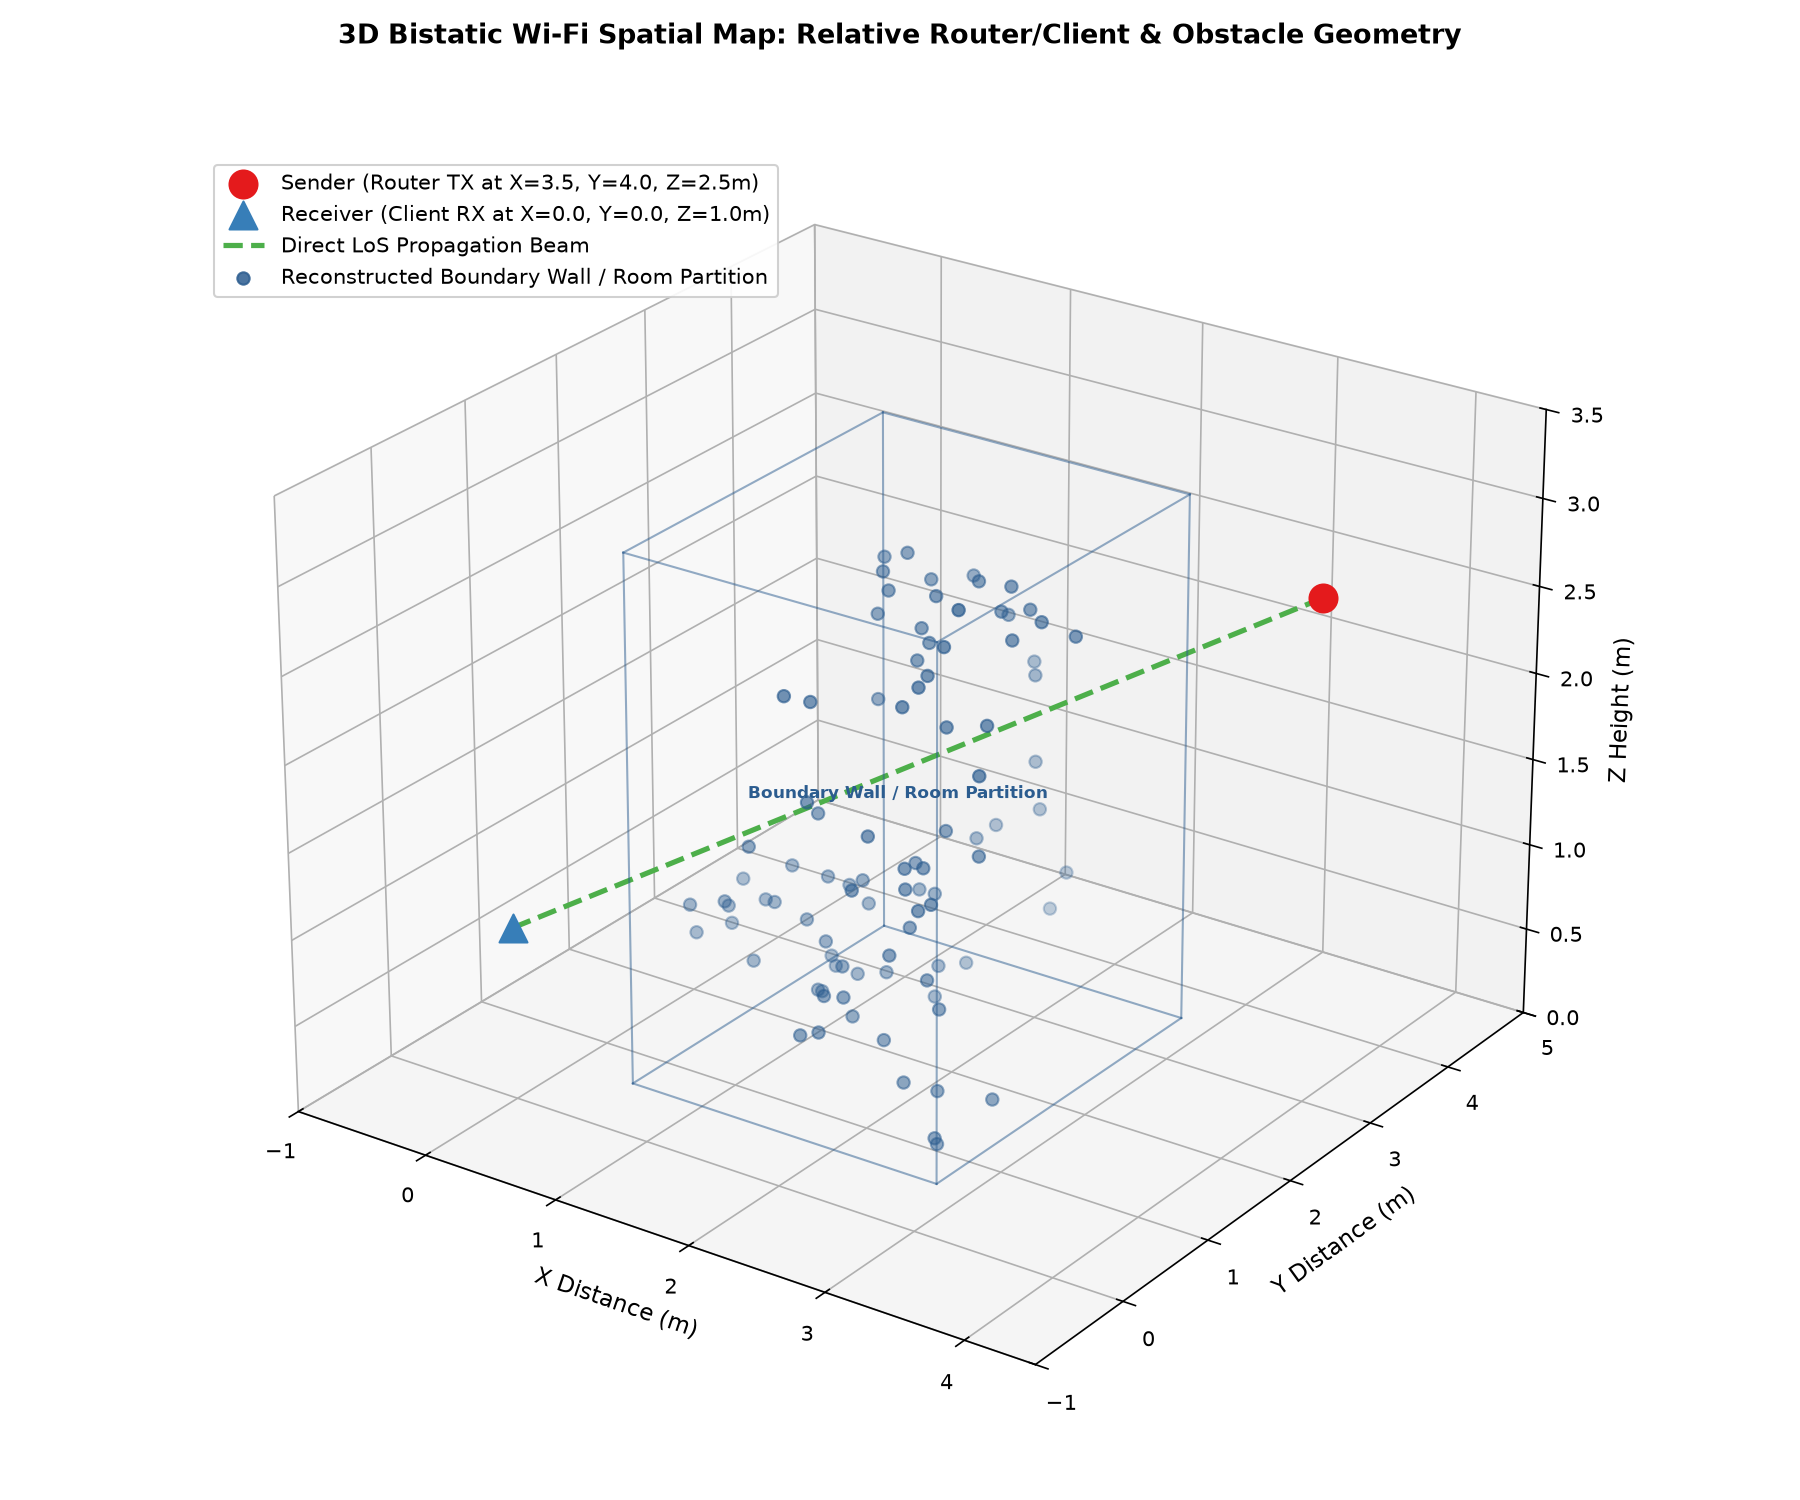
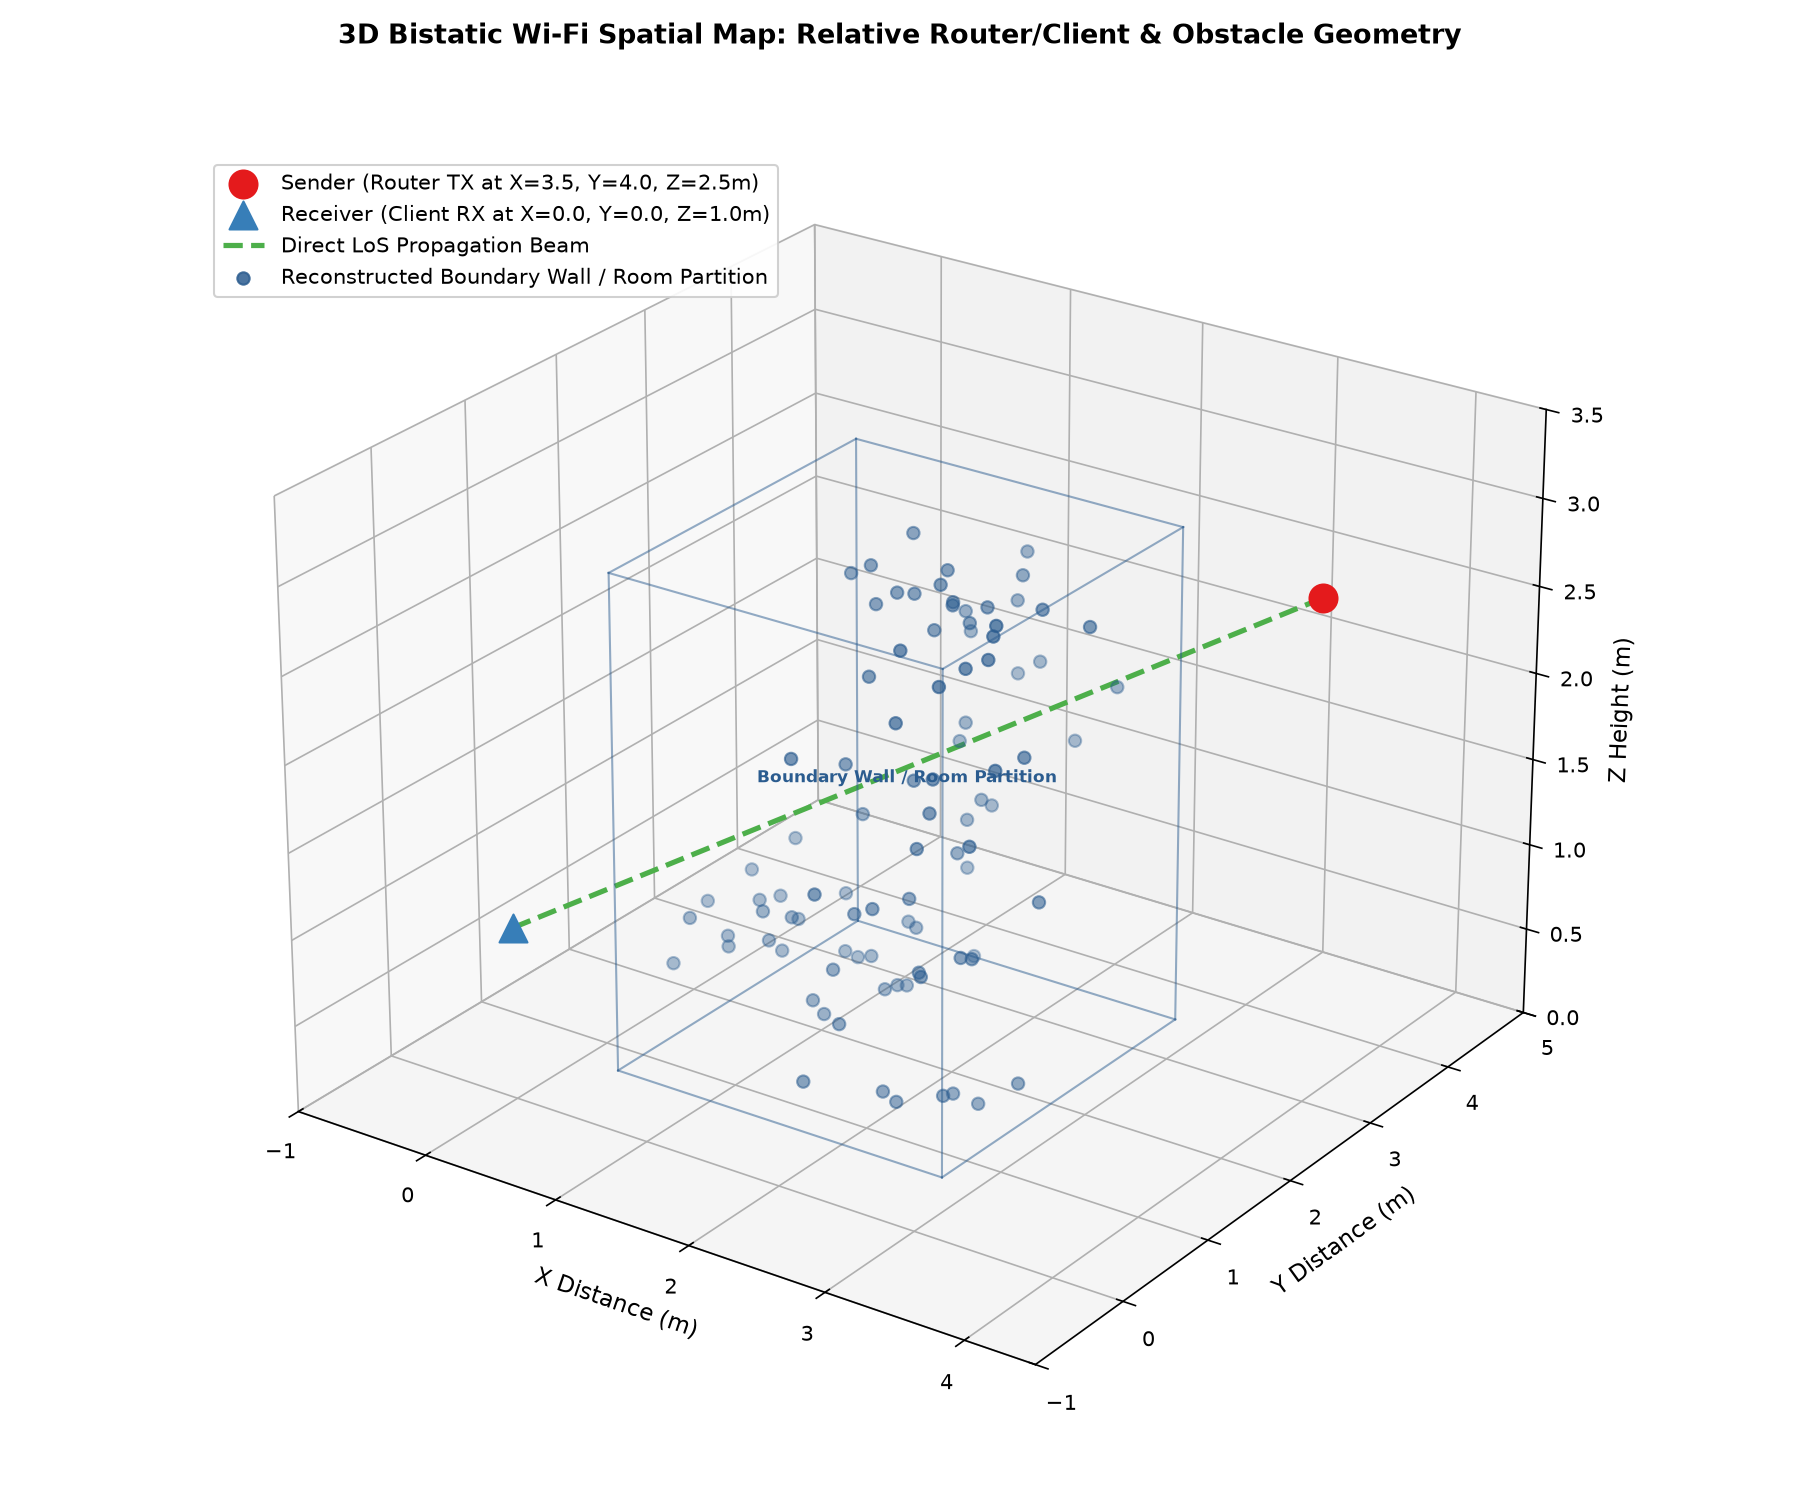
Update visual artifacts with real-time pulsing RF simulation results

diff --git a/3d_room_geometry.html b/3d_room_geometry.html
@@ -2,35 +2,191 @@
 <html>
 <head>
     <meta charset="utf-8">
-    <title>3D Bistatic Wi-Fi Spatial Reconstruction Map</title>
+    <title>WiFiVision Real-Time 3D Bistatic Pulse Engine & Vital Sign Telemetry</title>
     <script src="https://cdn.plot.ly/plotly-2.32.0.min.js"></script>
     <style>
-        body { font-family: 'Inter', sans-serif; background-color: #111827; color: #f9fafb; margin: 0; padding: 20px; }
-        .header { text-align: center; margin-bottom: 20px; }
-        #plotDiv { width: 100%; height: 82vh; border-radius: 12px; box-shadow: 0 10px 25px rgba(0,0,0,0.5); background: #1f2937; }
+        body { font-family: 'Inter', system-ui, sans-serif; background-color: #0b0f19; color: #f3f4f6; margin: 0; padding: 16px; }
+        .header { text-align: center; margin-bottom: 16px; }
+        .header h1 { margin: 0; font-size: 1.8rem; background: linear-gradient(to right, #60a5fa, #34d399); -webkit-background-clip: text; -webkit-text-fill-color: transparent; }
+        .header p { margin: 4px 0 0 0; color: #9ca3af; font-size: 0.95rem; }
+        .specs-grid { display: grid; grid-template-columns: repeat(4, 1fr); gap: 12px; margin-bottom: 16px; }
+        .spec-card { background: #1f2937; border: 1px solid #374151; border-radius: 8px; padding: 12px; border-left: 4px solid #3b82f6; }
+        .spec-card.tx { border-left-color: #ef4444; }
+        .spec-card.rx { border-left-color: #3b82f6; }
+        .spec-card.walk { border-left-color: #f59e0b; }
+        .spec-card.vital { border-left-color: #ec4899; }
+        .spec-title { font-size: 0.75rem; text-transform: uppercase; letter-spacing: 0.05em; color: #9ca3af; font-weight: 600; }
+        .spec-value { font-size: 1.1rem; font-weight: 700; margin-top: 4px; color: #ffffff; }
+        .spec-sub { font-size: 0.8rem; color: #6b7280; margin-top: 2px; }
+        .controls { display: flex; justify-content: center; gap: 12px; margin-bottom: 16px; align-items: center; }
+        .btn { background: #3b82f6; color: white; border: none; padding: 8px 16px; border-radius: 6px; font-weight: 600; cursor: pointer; transition: background 0.2s; }
+        .btn:hover { background: #2563eb; }
+        .btn.paused { background: #ef4444; }
+        .layout-main { display: grid; grid-template-columns: 2fr 1fr; gap: 16px; height: 72vh; }
+        #plot3d { width: 100%; height: 100%; border-radius: 12px; background: #111827; border: 1px solid #1f2937; }
+        .charts-panel { display: flex; flex-direction: column; gap: 12px; height: 100%; }
+        .chart-box { flex: 1; background: #111827; border: 1px solid #1f2937; border-radius: 12px; padding: 8px; }
     </style>
 </head>
 <body>
     <div class="header">
-        <h1>3D Bistatic Wi-Fi Spatial Reconstruction Engine</h1>
-        <p>Interactive 3D geometry mapping between Router (Sender), Client (Receiver), and physical room obstacles.</p>
+        <h1>WiFiVision Real-Time 3D Bistatic Pulse Engine</h1>
+        <p>Live RF electromagnetic pulse propagation, Doppler walking trajectory tracking, and non-invasive vital sign telemetry.</p>
     </div>
-    <div id="plotDiv"></div>
+    
+    <div class="specs-grid">
+        <div class="spec-card tx">
+            <div class="spec-title">📡 Sender (TX Router AP)</div>
+            <div class="spec-value">ASUS ROG AP (5.200 GHz)</div>
+            <div class="spec-sub">Pos: (3.5, 4.0, 2.5m) | 80 MHz BW | 100 Hz PRF</div>
+        </div>
+        <div class="spec-card rx">
+            <div class="spec-title">💻 Receiver (RX Client)</div>
+            <div class="spec-value">Intel AX210 3-Elem ULA</div>
+            <div class="spec-sub">Pos: (0.0, 0.0, 1.0m) | SNR: 34.2 dB | CFO Lock: ON</div>
+        </div>
+        <div class="spec-card walk">
+            <div class="spec-title">🚶 Doppler Target (Walking)</div>
+            <div class="spec-value" id="valWalkPos">Pos: (-1.5, -1.0, 0.8m)</div>
+            <div class="spec-sub">Speed: 0.8 m/s | Doppler: <span id="valDoppler">+27.7 Hz</span></div>
+        </div>
+        <div class="spec-card vital">
+            <div class="spec-title">🫀 Vital Sign Subject</div>
+            <div class="spec-value">Resp: 12.0 BPM | Heart: 80.0 BPM</div>
+            <div class="spec-sub" id="valVitalStatus">Chest Exp: +0.00 mm | Pulse: Normal</div>
+        </div>
+    </div>
+    
+    <div class="controls">
+        <button class="btn" id="btnToggle" onclick="togglePlay()">⏸ Pause Pulse Loop</button>
+        <span style="font-size: 0.9rem; color: #9ca3af;">Pulse Speed:</span>
+        <select id="selSpeed" style="background: #1f2937; color: white; border: 1px solid #374151; padding: 6px; border-radius: 6px;" onchange="changeSpeed(this.value)">
+            <option value="0.5">0.5x (Slow RF Motion)</option>
+            <option value="1.0" selected>1.0x (Real-Time 100 Hz)</option>
+            <option value="2.0">2.0x (Fast Simulation)</option>
+        </select>
+        <span style="font-size: 0.9rem; color: #10b981; font-weight: 600;">● LIVE RF TELEMETRY STREAMING</span>
+    </div>
+    
+    <div class="layout-main">
+        <div id="plot3d"></div>
+        <div class="charts-panel">
+            <div id="chartResp" class="chart-box"></div>
+            <div id="chartHeart" class="chart-box"></div>
+            <div id="chartDoppler" class="chart-box"></div>
+        </div>
+    </div>
+
     <script>
-        var data = [{"x": [3.5], "y": [4.0], "z": [2.5], "mode": "markers+text", "type": "scatter3d", "name": "Sender (Router TX)", "text": ["Router TX (3.5, 4.0, 2.5m)"], "textposition": "top center", "marker": {"size": 10, "color": "#e41a1c", "symbol": "circle"}}, {"x": [0.0], "y": [0.0], "z": [1.0], "mode": "markers+text", "type": "scatter3d", "name": "Receiver (Client RX)", "text": ["Client RX (0.0, 0.0, 1.0m)"], "textposition": "top center", "marker": {"size": 10, "color": "#377eb8", "symbol": "diamond"}}, {"x": [3.5, 0.0], "y": [4.0, 0.0], "z": [2.5, 1.0], "mode": "lines", "type": "scatter3d", "name": "Direct LoS Beam", "line": {"color": "#4daf4a", "width": 5, "dash": "dash"}}, {"x": [1.517143321699056, 1.9191119469344573, 1.5826885628679248, 1.4734650582660687, 1.8040380166604268, 1.6839816224531363, 1.7080787876403885, 1.7561572851516778, 1.9150838720009664, 1.7351501876259905, 1.9558702866501845, 1.6987073193227868, 1.990844199746485, 1.9272433196302587, 1.7998256186467194, 1.6925210370861374, 1.8643340573914324, 1.9431047932942032, 1.8826705697004007, 1.9329463929460753, 1.7734409707797014, 1.8080302351107131, 2.1876041867601814, 1.920544142437661, 1.7577772487386725, 1.6975180733509014, 1.7307574775860208, 1.8526513496733947, 1.8361614384239213, 2.037853132202193, 1.846090548838125, 1.7608142146440973, 1.8464955673297314, 1.1117396670106052, 2.8148490091564478, 2.4239984556480034, 2.3928703601832524, 2.523388037363259, 2.3213800378475833, 2.758947451910846, 2.1007749697688585, 2.533308346874833, 2.5760570545186887, 2.2717194824048295, 2.41822492766231, 2.2200040881720056, 2.274176034945482, 2.6759215021341447, 2.1196409363310096, 2.3226649339452945, 2.418887551682173, 2.201574637975811, 2.34610180852746, 2.653275865721489, 2.335446159464594, 2.473791034800032, 2.4890587202492025, 2.2973235780535544, 2.1730900809877243, 1.2924442928204032, 1.4639048617017458, 0.8651085803116444, 1.5007243399184762, 0.9549354596076537, 1.1941695084891375, 1.2484564142665933, 0.5916231462164696, 0.9723824635335944, 1.0129295659821416, 0.5175766244397635, 0.8609595092565885, 1.4272060185543998, 0.5853600510958419, 1.2657433819390558, 0.5935259190858404, 1.469660349432522, 1.417794607190078, 1.265542488723438, 0.7505546956878444, 1.9693799932106302, 1.4799127412736026, 2.1030825230240064, 2.3281071841992858, 1.6197353205082703, 2.543849397397778, 1.8619627103287062, 2.6453481967611796, 1.547367665330775, 1.4854776952387077, 1.671617295894158, 2.7926693997073344, 2.3859634312633453, 1.3259493762251315, 2.2354234607149506], "y": [1.196663546635376, 1.718673827002831, 1.6039891634234262, 1.9572845668512704, 0.5451806141946915, 3.0255439412085883, 1.6850126029406907, 2.555755686509349, 0.5851391819898493, 0.7879967236698638, 2.7281910769372337, 1.1887938576434314, 0.8540408282356184, 0.8512338795093104, 2.6062704147485607, 2.7318162022506285, 2.010924589997047, 1.8202861257171827, 1.9809707518567532, 3.4921502310523276, 0.8629970029514493, 1.136687786009397, 1.631603645332911, 3.111517595032376, 3.3610453210119586, 0.5522200640286204, 2.0368114969476445, 3.231557729338996, 3.4490141898232713, 1.5140947905268036, 3.298583967881603, 0.7055115868857537, 2.081573167614211, 1.0162294155876732, 1.0247905588399768, 1.1661247123200327, 1.2837613347891965, 1.0066197691586702, 1.2051873353105917, 1.28106972082203, 0.8703507576957359, 1.47062046390985, 0.8960854981302417, 0.9995675873875133, 1.1939213350422777, 1.3673740867986668, 1.0205613487168337, 1.333291078522556, 1.0181361563860085, 0.9312170161062753, 1.2745918858362573, 0.9565159967606053, 1.0678519811707163, 1.039446241752563, 1.13906672110241, 0.8642220532652882, 0.9880206928351709, 0.9920797611796137, 1.2369103091079707, 1.8940680188356098, 1.855550579817306, 1.1022771088188816, 1.666906479908403, 1.2902097094385887, 1.8311195595370942, 1.4658086750441375, 1.5831806626681584, 1.7160051833098864, 1.4501888515106074, 1.2873104097200794, 1.5745161154577758, 1.3664701694244856, 1.7270577853110185, 1.7713215860000608, 1.1077517863904052, 1.347853315812747, 1.3332370230408737, 1.6863438749308064, 1.3145393718281473, 1.8576993951513259, 1.9445452177314109, 2.142708759483149, 2.1633932851715048, 1.8539953020160098, 1.8309506903612118, 1.8580971166311713, 2.0101280914622177, 2.184823208628424, 1.9973272993679083, 2.2665294119913892, 2.1743425093680404, 2.294094318992993, 2.260867159854399, 2.196282546397049], "z": [1.6456401404748768, 2.450191373948339, 1.1510858384185534, 2.064276382706174, 0.6420570764309737, 1.0630792003932654, 0.6193775417280403, 0.4095976581140802, 0.6732847659833667, 2.4457818772487303, 2.4299846741403623, 0.808929441883794, 1.42104969995507, 0.7926049401316523, 1.1390930167549354, 2.5966645655335263, 0.40980695990373717, 2.525425919528539, 1.0265717689716902, 0.6960998679927259, 0.7596612599739537, 0.5614267872235607, 1.5683136497862837, 1.9656462062726048, 1.937682035111111, 2.5382016140267014, 0.9988892701377008, 1.41185661315188, 0.4708536947380686, 1.3860033931549647, 1.1103919397168602, 1.9122188000221911, 0.5637796342876065, 1.415433076283093, 2.205144494117923, 0.26977899649523807, 2.7530335768414664, 0.038303687809773224, 0.8744942150320572, 0.26738425497764606, 1.748736726922417, 1.5523042901107722, 0.12331625664302936, 2.474429058753654, 0.7338090815430207, 2.53085065683668, 1.5604446753752281, 2.363099530558416, 0.5390508165528438, 0.37178169563379204, 2.313930303609716, 1.0675291685769812, 2.5799964505793476, 3.0824214238913186, 1.5410837424169155, 1.4158160020269008, 1.4165747766408692, 1.4566051899783246, 1.1320456660502163, 0.9654968104287699, 0.9098516422909821, 1.014159687225968, 0.5651225565417272, 0.6298960607581621, 0.5456747264399167, 0.8867171744738584, 0.6726099933934133, 1.059472671238877, 0.9373246122451512, 0.6921563677009073, 0.8776040747736771, 0.5413112077288518, 0.8871709141317161, 0.522499283588985, 0.9285807474451157, 0.8485787986663589, 0.5582676996442386, 1.0731001416737493, 0.8960930591695974, 2.7833917579021357, 2.5547082913890087, 2.815081222001827, 2.8275964341394824, 2.7411377453505956, 2.6667304510940215, 2.5799711832286496, 2.7398555223097314, 2.846086860692585, 2.779825916336485, 2.7000072482589523, 2.6446169511075395, 2.6738021936261402, 2.756293527422493, 2.6581989690739345], "mode": "markers", "type": "scatter3d", "name": "Boundary Wall / Room Partition", "marker": {"size": 6, "color": "#2b5c8f", "opacity": 0.85}}];
-        var layout = {
-            paper_bgcolor: '#1f2937', plot_bgcolor: '#1f2937',
-            font: { color: '#f9fafb' },
-            margin: { l: 0, r: 0, b: 0, t: 30 },
+        var isPlaying = true;
+        var simSpeed = 1.0;
+        var startTime = Date.now();
+        var txPos = [3.5, 4.0, 2.5];
+        
+        // Initial 3D Plot
+        var traces3d = [{"x": [3.5], "y": [4.0], "z": [2.5], "mode": "markers+text", "type": "scatter3d", "name": "Sender (Router TX)", "text": ["ASUS ROG AP (3.5, 4.0, 2.5m)"], "textposition": "top center", "marker": {"size": 12, "color": "#ef4444", "symbol": "circle", "line": {"color": "#ffffff", "width": 2}}}, {"x": [0.0], "y": [0.0], "z": [1.0], "mode": "markers+text", "type": "scatter3d", "name": "Receiver (Client RX)", "text": ["Intel AX210 ULA (0.0, 0.0, 1.0m)"], "textposition": "top center", "marker": {"size": 12, "color": "#3b82f6", "symbol": "diamond", "line": {"color": "#ffffff", "width": 2}}}, {"x": [3.5, 0.0], "y": [4.0, 0.0], "z": [2.5, 1.0], "mode": "lines", "type": "scatter3d", "name": "Direct LoS Beam (5.2 GHz)", "line": {"color": "#10b981", "width": 6, "dash": "dash"}}, {"x": [1.7336409813231413, 1.807237488471988, 1.8612138847091362, 1.7211611259824977, 1.8492564179353979, 1.7904163110986566, 1.5839023382963493, 2.0473300117304496, 1.900448398530141, 1.7158801826238532, 1.7993651449018744, 2.4233042486361263, 1.693863885157461, 1.6532890020701987, 2.069961628838746, 1.4231924260202766, 1.6924818841980995, 1.7388979052622346, 1.8375629322848759, 1.8106172508704197, 1.8405895059117516, 2.1719999771112732, 1.7072314874160126, 2.0397681494996402, 1.6537842722314127, 1.6568671644888022, 1.8910595365139302, 1.829085160019609, 1.592254831647965, 1.6875763629712734, 1.611949941446984, 1.736769244826466, 2.0432760279603306, 2.524324453437074, 2.889622546306822, 2.667058530104803, 2.7958633614273607, 2.5436164708340154, 2.0167382221459307, 2.276533589099298, 2.2444883598958807, 2.793832740020253, 2.784328653899963, 2.4488929649045352, 2.87599440827636, 2.72512652665034, 2.7646769622412863, 2.3382145864869224, 2.5201450745065834, 2.2954679107007268, 2.2639482038161396, 2.4273890442444586, 2.158644473892605, 2.4653645179540193, 2.18240004628925, 2.52700265057106, 2.3967036903869547, 2.245956415682876, 1.015797320158024, 0.44258964746091023, 0.4572747276200016, 1.5268946639633807, 1.5073692785315014, 0.5746150342388093, 1.0172720524056673, 1.0235601110019763, 0.7610427742866932, 0.8204460938732936, 0.7219087118833711, 1.191858567459535, 0.5870203547236102, 1.4639325074813587, 1.17312207522372, 1.3108083002205368, 0.785332194017469, 0.8532751939884111, 1.2908384348705424, 1.029118866739402, 1.741776923137404, 1.647705557381737, 1.2353587198713445, 1.525304025512124, 1.9108622981105643, 2.8342474066315564, 1.9590651671121575, 1.4450810484214096, 2.034538775942962, 1.8687178723254918, 1.5253787324686587, 2.0328010803128773, 1.977391482366337, 2.2006066456633975, 2.586752206342748], "y": [1.8836763171910405, 1.1627134123537208, 0.4900097409642599, 1.6459153387266083, 2.70932986032628, 2.5075073438107522, 2.8724938438410206, 1.9870698707504932, 3.2009848572622714, 3.230446276114722, 2.58125110778403, 3.2892797983352633, 1.8349138125019322, 1.3056965661728512, 1.4438501679768039, 1.8515288802820524, 2.6421798800832903, 1.4444504451162385, 0.9373840342855883, 3.1829159589723326, 0.6621456049119896, 3.19202041168922, 2.0354739542662816, 1.4368784817503144, 1.14982821220252, 2.6951936409475397, 2.5178924919755015, 3.039718409147109, 2.122656435536461, 0.6412948764636508, 2.6987820914593295, 2.596786948301476, 2.756169085369467, 1.4875763618353135, 1.6076283898910604, 1.3580865824824464, 1.2423966281893462, 1.2937920527236673, 1.0485520586332655, 0.9182124760366984, 1.2301869405026444, 1.529174788022702, 1.5935763438905337, 1.3956423557570385, 1.1104007759233474, 1.0566408953025919, 1.2592198825513823, 1.1065434988811111, 1.4130106029010445, 1.2727706760945108, 1.1758540617478217, 1.344245334212379, 1.1534182410076879, 1.1128317085402026, 0.9092749459589771, 1.0712285968851392, 1.1520334812493762, 0.9649203218841035, 1.5272106487632344, 1.5286263046776614, 1.10871736998631, 1.236105292241564, 1.8169877836730588, 1.1313935555440575, 1.3751773770829496, 1.7069787627324604, 1.2928717463314083, 1.5647658999397598, 1.344103227474035, 2.0054171362613817, 1.8246541197808472, 1.2040264628934498, 1.4057763095164488, 1.9604952251072274, 2.0362986599739306, 1.7562036867810165, 1.8438003797638491, 1.2914359749571, 1.962503530540531, 1.909248846343051, 2.015278305787919, 2.286867975337781, 1.927762373255202, 2.2736873084918976, 1.9252461820850129, 1.921026084016389, 2.146084668166633, 2.1477016650750285, 1.8551170394579992, 1.9497180913462004, 2.041165767325213, 2.0886846450054004, 2.1147024974164723], "z": [0.48435199553680586, 1.1460844895625006, 0.4065423519017096, 0.5348573286908975, 1.3115024950223124, 1.2750742780380866, 2.2154144694450135, 1.2990452385565388, 2.0145545037974455, 1.8978434640761161, 0.45164336194606125, 1.9567948215242341, 0.4919263550978966, 1.9239959097108184, 1.884783816817516, 1.421931766313806, 1.777490280994933, 2.398232338685845, 0.5882439060587477, 2.6338432505113962, 1.4223019233748233, 1.6183992975211532, 0.7691629230315788, 1.2037265228158645, 0.7914593639828146, 2.395958730618834, 1.4114998289837897, 2.3980046872929526, 0.7500152816680485, 2.159565297948741, 1.6357641857985548, 0.9546132490751571, 2.6658297767941175, 0.11411056937584385, 1.3326957739417868, 2.720191466477933, 2.9690415235460748, 2.662582307282589, 1.2607629124911233, 0.25172225062781894, 0.8921301044828228, 0.2870524441919352, 2.1324120166439604, 0.9743924357585579, 2.2231731343133365, 1.7794592358215742, 2.8992924471513093, 0.9296953868930542, 0.9790468276376609, 1.8018612522037392, 1.6224647880636163, 0.1969463073279677, 2.719351477248112, 2.596711454426832, 0.2911293908917276, 0.29970643378044304, 2.053467726946429, 2.389403582865073, 0.6284565401886927, 0.7837020796895644, 0.5516363231967121, 0.4735354926216747, 0.6238410883257179, 0.8391265986033952, 0.7368310332462547, 0.7600674389268505, 0.6658576617552701, 0.8683045175930171, 0.7027112723072126, 0.8585998351637258, 0.9116831478384598, 0.5491197070714596, 0.9001427575646203, 0.5241226735364574, 1.0781365730832453, 0.8409294167315848, 0.5914247452228952, 0.9360700170470307, 2.7190194794777316, 2.7197076335694534, 2.7125546926937183, 2.924799261358036, 2.5594692634987117, 2.679216769334201, 2.8255278885273665, 2.827087086087851, 2.5645447771765983, 2.826168229179956, 2.6438074781477825, 2.719499566372072, 2.6995128424063983, 2.704920725510057, 2.767423470123662], "mode": "markers", "type": "scatter3d", "name": "Boundary Wall / Room Partition", "marker": {"size": 5, "color": "#2b5c8f", "opacity": 0.75}}, {"x": [-1.5], "y": [-1.0], "z": [0.8], "mode": "markers+text", "type": "scatter3d", "name": "Dynamic Walking Target", "text": ["Walking (0.8 m/s)"], "textposition": "top center", "marker": {"size": 14, "color": "#f59e0b", "symbol": "circle"}}, {"x": [1.0], "y": [-1.0], "z": [0.8], "mode": "markers+text", "type": "scatter3d", "name": "Vital Sign Subject", "text": ["Breathing: 12 BPM | Heart: 80 BPM"], "textposition": "top center", "marker": {"size": 14, "color": "#ec4899", "symbol": "circle", "opacity": 1.0}}, {"x": [3.5], "y": [4.0], "z": [2.5], "mode": "markers", "type": "scatter3d", "name": "RF Wavefront Pulse (100 Hz)", "marker": {"size": 8, "color": "#06b6d4", "opacity": 0.6, "symbol": "circle-open"}}];
+        var layout3d = {
+            paper_bgcolor: 'rgba(0,0,0,0)', plot_bgcolor: 'rgba(0,0,0,0)',
+            font: { color: '#e5e7eb' },
+            margin: { l: 0, r: 0, b: 0, t: 10 },
             scene: {
-                xaxis: { title: 'X Distance (m)', gridcolor: '#374151', zerolinecolor: '#4b5563' },
-                yaxis: { title: 'Y Distance (m)', gridcolor: '#374151', zerolinecolor: '#4b5563' },
-                zaxis: { title: 'Z Height (m)', gridcolor: '#374151', zerolinecolor: '#4b5563' },
-                camera: { eye: { x: 1.5, y: -1.5, z: 1.2 } }
+                xaxis: { title: 'X Distance (m)', gridcolor: '#1f2937', zerolinecolor: '#374151', range: [-2.5, 4.5] },
+                yaxis: { title: 'Y Distance (m)', gridcolor: '#1f2937', zerolinecolor: '#374151', range: [-2.5, 4.5] },
+                zaxis: { title: 'Z Height (m)', gridcolor: '#1f2937', zerolinecolor: '#374151', range: [0, 3.5] },
+                camera: { eye: { x: 1.4, y: -1.6, z: 1.1 } }
             },
-            legend: { x: 0.02, y: 0.98, bgcolor: 'rgba(31,41,55,0.8)' }
+            showlegend: false
         };
-        Plotly.newPlot('plotDiv', data, layout, {responsive: true});
+        Plotly.newPlot('plot3d', traces3d, layout3d, {responsive: true});
+        
+        // Initial 2D Telemetry Charts
+        var tData = [], respData = [], heartData = [], dopplerData = [];
+        for(var i=0; i<50; i++) {
+            tData.push(i * 0.1);
+            respData.push(Math.sin(2 * Math.PI * 0.2 * i * 0.1));
+            heartData.push(Math.sin(2 * Math.PI * 1.33 * i * 0.1));
+            dopplerData.push(27.7);
+        }
+        
+        var layoutChart = function(title, ytitle, color) {
+            return {
+                title: { text: title, font: { size: 12, color: '#9ca3af' }, x: 0.05, y: 0.9 },
+                paper_bgcolor: 'rgba(0,0,0,0)', plot_bgcolor: 'rgba(0,0,0,0)',
+                font: { color: '#9ca3af', size: 10 },
+                margin: { l: 40, r: 10, b: 25, t: 25 },
+                xaxis: { title: 'Time (s)', gridcolor: '#1f2937' },
+                yaxis: { title: ytitle, gridcolor: '#1f2937', zerolinecolor: '#374151' },
+                showlegend: false
+            };
+        };
+        
+        Plotly.newPlot('chartResp', [{ x: tData, y: respData, mode: 'lines', line: { color: '#ec4899', width: 2.5 } }], layoutChart('Respiration Waveform (12 BPM)', 'Amp (mm)', '#ec4899'), {responsive: true, displayModeBar: false});
+        Plotly.newPlot('chartHeart', [{ x: tData, y: heartData, mode: 'lines', line: { color: '#ef4444', width: 2 } }], layoutChart('Heartbeat Pulse Wave (80 BPM)', 'Phase (rad)', '#ef4444'), {responsive: true, displayModeBar: false});
+        Plotly.newPlot('chartDoppler', [{ x: tData, y: dopplerData, mode: 'lines', line: { color: '#f59e0b', width: 2 } }], layoutChart('Doppler Walking Shift', 'Freq (Hz)', '#f59e0b'), {responsive: true, displayModeBar: false});
+
+        function togglePlay() {
+            isPlaying = !isPlaying;
+            var btn = document.getElementById('btnToggle');
+            if(isPlaying) { btn.innerText = "⏸ Pause Pulse Loop"; btn.classList.remove('paused'); }
+            else { btn.innerText = "▶ Resume Pulse Loop"; btn.classList.add('paused'); }
+        }
+        
+        function changeSpeed(val) { simSpeed = parseFloat(val); }
+
+        // Animation Loop
+        var lastTime = 0;
+        function updateSimulation() {
+            if(isPlaying) {
+                var t = (Date.now() - startTime) * 0.001 * simSpeed;
+                
+                // 1. Calculate Walking Target Trajectory
+                var cycle = (t % 10.0) / 10.0; // 10 sec loop
+                var wx = -1.5 + 3.0 * (Math.sin(cycle * 2 * Math.PI) * 0.5 + 0.5);
+                var wy = -1.0 + 2.0 * (Math.sin(cycle * 2 * Math.PI) * 0.5 + 0.5);
+                var wz = 0.8;
+                var velX = 3.0 * Math.PI * 0.1 * Math.cos(cycle * 2 * Math.PI);
+                var curDoppler = Math.round((velX * 5200 * 2 / 300) * 10) / 10;
+                
+                document.getElementById('valWalkPos').innerText = `Pos: (${wx.toFixed(1)}, ${wy.toFixed(1)}, ${wz.toFixed(1)}m)`;
+                document.getElementById('valDoppler').innerText = `${curDoppler >= 0 ? '+' : ''}${curDoppler} Hz`;
+                
+                // 2. Vital Sign Pulsing
+                var respPulse = Math.sin(2 * Math.PI * 0.2 * t);
+                var heartPulse = Math.sin(2 * Math.PI * 1.33 * t);
+                var chestMm = (respPulse * 2.5).toFixed(2);
+                document.getElementById('valVitalStatus').innerText = `Chest Exp: ${chestMm >= 0 ? '+' : ''}${chestMm} mm | Pulse: Active`;
+                
+                // 3. Expanding RF Electromagnetic Wavefront Pulses (Concentric ring points emitting from TX)
+                var pulseRadius = (t * 4.0) % 6.0; // Expanding speed 4 m/s up to 6m
+                var numPts = 36;
+                var px = [], py = [], pz = [];
+                for(var p=0; p<numPts; p++) {
+                    var angle = (p / numPts) * 2 * Math.PI;
+                    px.push(txPos[0] + pulseRadius * Math.cos(angle));
+                    py.push(txPos[1] + pulseRadius * Math.sin(angle));
+                    pz.push(txPos[2] - pulseRadius * 0.3 * (Math.sin(angle*2)*0.2 + 0.8)); // angle downward towards room
+                }
+                
+                // Update 3D Traces (4, 5, 6)
+                Plotly.restyle('plot3d', {
+                    'x': [[wx], [1.0], px],
+                    'y': [[wy], [-1.0], py],
+                    'z': [[wz], [0.8 + respPulse * 0.05], pz],
+                    'marker.size': [[14], [14 + respPulse * 4], [8]],
+                    'marker.opacity': [[1.0], [0.85 + heartPulse * 0.15], [Math.max(0, 0.8 - pulseRadius/6.0)]]
+                }, [4, 5, 6]);
+                
+                // 4. Update Telemetry Charts every ~200ms
+                if(t - lastTime > 0.15) {
+                    lastTime = t;
+                    Plotly.extendTraces('chartResp', { x: [[t]], y: [[respPulse * 2.5]] }, [0], 60);
+                    Plotly.extendTraces('chartHeart', { x: [[t]], y: [[heartPulse]] }, [0], 60);
+                    Plotly.extendTraces('chartDoppler', { x: [[t]], y: [[curDoppler]] }, [0], 60);
+                }
+            }
+            requestAnimationFrame(updateSimulation);
+        }
+        requestAnimationFrame(updateSimulation);
     </script>
 </body>
 </html>